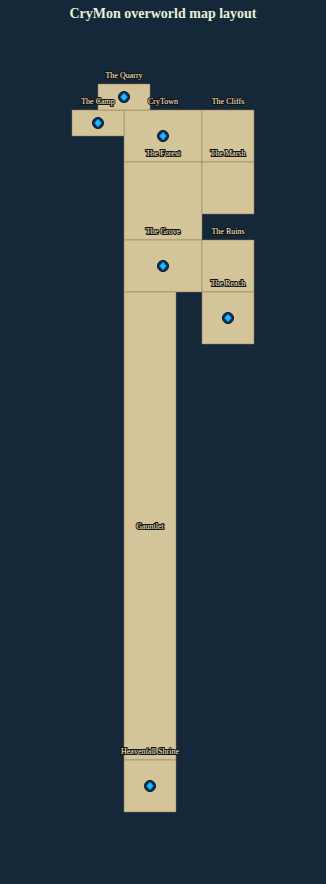
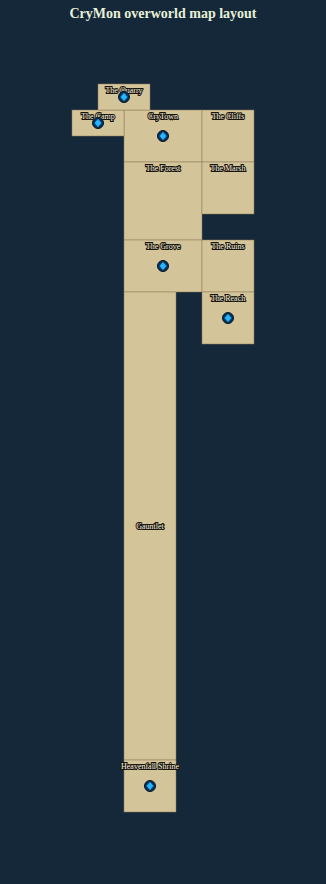
Town Map: move labels inside their own cell, not floating above it
Every non-Gauntlet label was pinned just above its box's top edge,
so it visually spilled outside the rectangle it names. Moved inside
the top of the box in both the SVG generator and engine.ts's
drawTownMap(). Gauntlet's label is untouched -- it was already
correctly centered in the middle of its corridor.

Claude-Session: https://claude.ai/code/session_01VEzrPtq63BW9w3sxPAgTok

diff --git a/src/game/engine.ts b/src/game/engine.ts
@@ -1117,7 +1117,7 @@ export class CryMon {
 			// Gauntlet's label sits in the vertical middle of the long corridor
 			// it represents, not pinned to the top edge.
 			const labelInMiddle = n.id === "gauntlet_route";
-			const labelY = labelInMiddle ? y + (ch * cell) / 2 + 3 : y - 4;
+			const labelY = labelInMiddle ? y + (ch * cell) / 2 + 3 : y + Math.max(4, cell * 0.5);
 			this.text(n.label, X(cx), Y(labelY), isHere ? "#ffe08a" : "#f0ecd8", 8, "center");
 			if (n.gem) {
 				const gy = y + (ch * cell) / 2;

diff --git a/CURRENT_WORK.md b/CURRENT_WORK.md
@@ -752,3 +752,12 @@ small gap above where Camp and CryTown meet. Not a bug to fix per the
 user, just asked to explain it; explanation given, no code changed
 for this part.
 
+**Labels moved inside their own cell, except Gauntlet (Claude,
+2026-09-22).** Every non-Gauntlet label was pinned just above its
+box's top edge, spilling out of the rectangle it names. Moved inside
+the top of the box (`generate-town-map.mjs`: `oy+(M+b.y)*CELL+9`;
+`engine.ts`: `y+Math.max(4, cell*0.5)`, proportional since the
+in-game panel's cell size is much smaller than the SVG's fixed 26px).
+Gauntlet's label is untouched — it already sits correctly centered in
+the middle of its long corridor.
+
